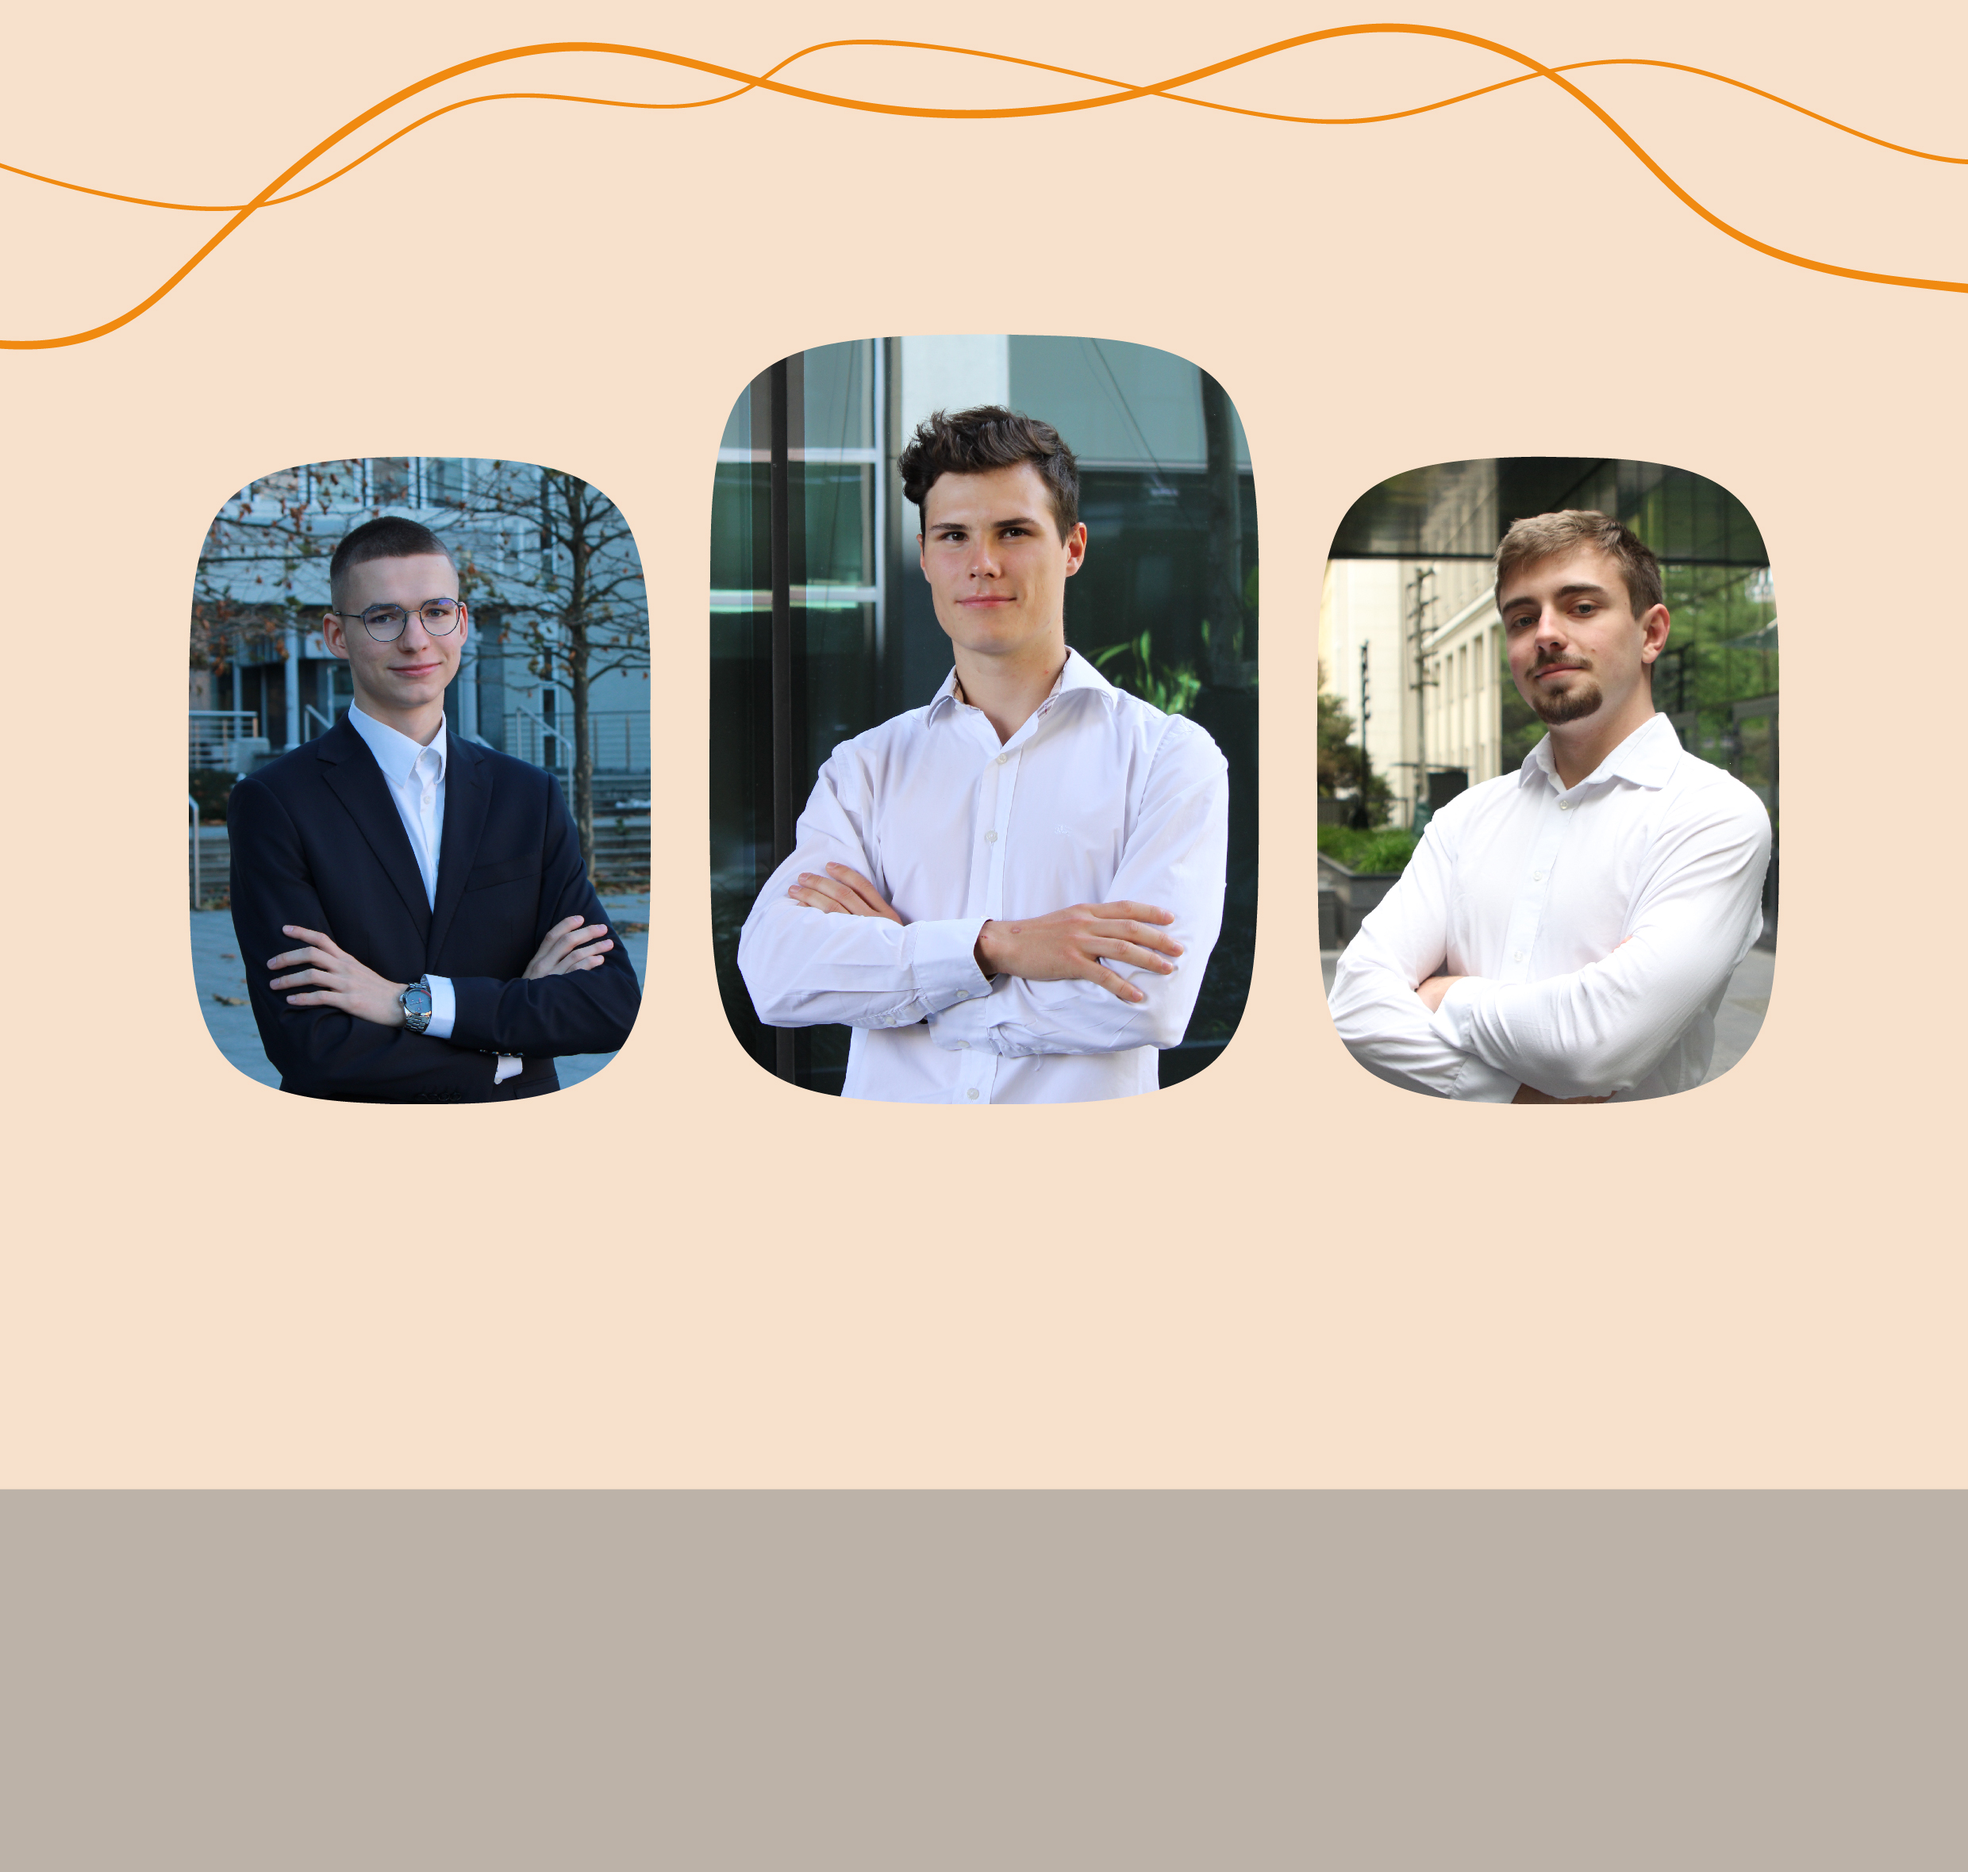
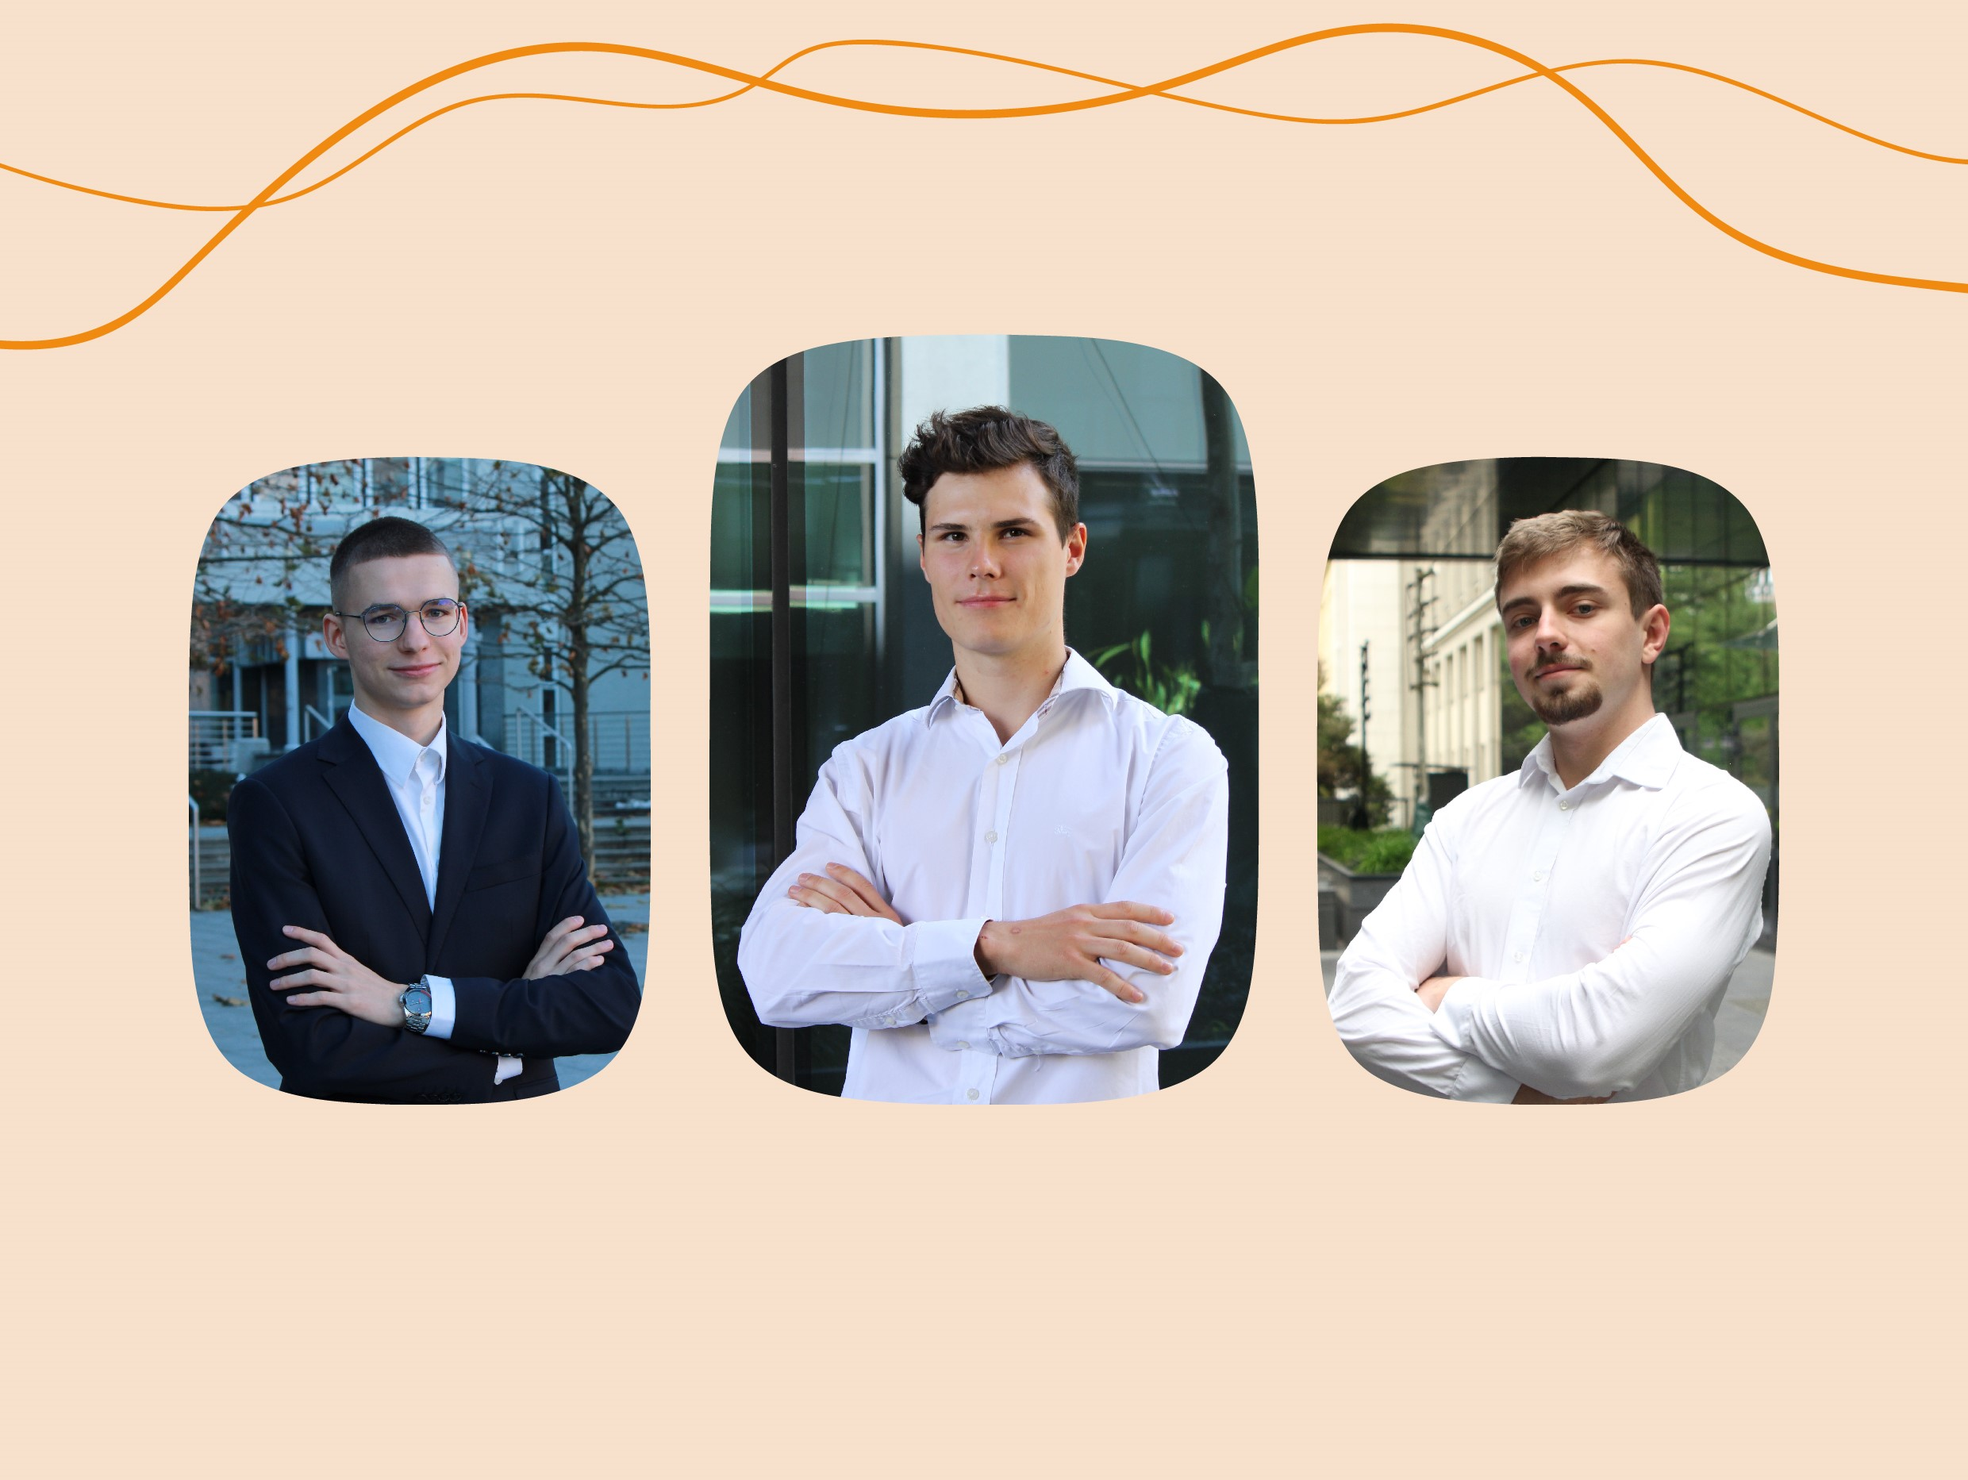
Desktop version done

diff --git a/src/components/Organizers.tsx b/src/components/Organizers.tsx
@@ -1,6 +1,5 @@
 import React from "react";
 //@ts-ignore
-//import img8_desktop from "../images/desktop_backgrounds/CT_bg.jpg";
 import img8_desktop from "../images/desktop_backgrounds/organizatorzy bez napisow 2_Obszar roboczy 1.jpg";
 //@ts-ignore
 import img6_mobile from "../images/mobile_backgrounds/CT_mobile_fix.png";
@@ -24,7 +23,7 @@ const Container = styled.div`
 
 const ContactBoxTitle = styled.h2`
   position: absolute;
-  top: 13%;
+  top: 15%;
   left: 50%;
   transform: translate(-50%, -50%);
   font-size: clamp(5rem, 2vw, 8rem);
@@ -37,15 +36,17 @@ const ContactBoxTitle = styled.h2`
 
 const TextBox = styled.div`
   position: absolute;
-  width: 17%;
-  height: 10%;
+  width: 22%;
+  height: auto;
   font-size: 1.15vw;
   line-height: 130%;
   color: #d2764a;
   text-align: center;
+  display: flex;
+  flex-direction: column;
   align-items: center;
-  display: flexbox;
   justify-content: center;
+  
   @media (max-width: 768px) {
     display: none;
   } ;
@@ -56,13 +57,24 @@ const Picture = styled.picture`
   top: 1.75rem;
 `;
 
-const NameText = styled.span`
-  font-size: 120%;
+const NameText = styled.div`
+  font-size: 3vw;
+  color: black;
+  font-weight: bold;
+  text-align: center;
+  margin-bottom: 1vh;
+`;
+
+const DescText = styled.div`
+  font-size: 1.5vw;
   font-weight: 600;
+  color: #d2764a;
+  text-align: center;
+  line-height: 1.4;
 `;
 
 const TextBoxLG = styled(TextBox)`
-  left: 33.33%;
+  left: 20%;
   transform: translate(-50%, -50%);
   top: clamp(60%, 65vw, 81.25%);
 `;
@@ -79,6 +91,19 @@ const TextBoxFR = styled(TextBox)`
   top: clamp(60%, 65vw, 81.25%);
 `;
 
+// stylizacja stopki
+const FooterContainer = styled.div`
+  width: 100%;
+  background-color: #c8beb3; // Kolor tła
+  color: white; //Kolor tekstu
+  text-align: center;
+  font-size: clamp(1rem, 2vw, 2rem);
+  padding: 2rem 0;
+  font-weight: 400;
+  line-height: 1.5;
+  //margin-top: 5rem;
+`;
+
 const Organizers: React.FC = () => {
   return (
       <>
@@ -89,34 +114,42 @@ const Organizers: React.FC = () => {
             <source srcSet={img6_mobile} media="(max-width: 768px)" />
             <Img src={img8_desktop} alt="last page" />
           </Picture>
+
           <ContactBoxTitle>
             Kontakt z organizatorami
           </ContactBoxTitle>
           <TextBoxLG>
-            <NameText>
-              TOMASZ KOLBUSZ <br />{" "}
-            </NameText>
-            KOORDYNATOR DS. LOGISTYKI <br />
-            881 682 816 <br />
-            TOMASZ.KOLBUSZ@BEST.KRAKOW.PL <br />
+            <NameText>TOMASZ KOLBUSZ</NameText>
+            <DescText>
+              KOORDYNATOR DS. LOGISTYKI <br />
+              881 682 816 <br />
+              TOMASZ.KOLBUSZ@BEST.KRAKOW.PL
+            </DescText>
           </TextBoxLG>
           <TextBoxMO>
-            <NameText>
-              PATRYK MOTYLSKI <br />{" "}
-            </NameText>
-            GŁÓWNY KOORDYNATOR <br />
-            531 767 164 <br />
-            PATRYK.MOTYLSKI@BEST.KRAKOW.PL <br />
+            <NameText>PATRYK MOTYLSKI</NameText>
+            <DescText>
+              GŁÓWNY KOORDYNATOR <br />
+              531 767 164 <br />
+              PATRYK.MOTYLSKI@BEST.KRAKOW.PL
+            </DescText>
           </TextBoxMO>
           <TextBoxFR>
-            <NameText>
-              BARTOSZ AMALIO <br />{" "}
-            </NameText>
-            KOORDYNATOR DS. KONTAKTU Z FIRMAMI <br />
-            531 490 520 <br />
-            BARTOSZ.AMALIO@BEST.KRAKOW.PL <br />
+            <NameText>BARTOSZ AMALIO</NameText>
+            <DescText>
+              KOORDYNATOR DS. KONTAKTU Z FIRMAMI <br />
+              531 490 520 <br />
+              BARTOSZ.AMALIO@BEST.KRAKOW.PL
+            </DescText>
           </TextBoxFR>
         </Container>
+
+        <FooterContainer>
+          STOWARZYSZENIE STUDENTÓW BEST AGH KRAKÓW <br />
+          DS 1 "ALFA" BLOK 1 <br />
+          UL. REYMONTA 17/E14 <br />
+          30-059 KRAKÓW
+        </FooterContainer>
       </>
   );
 };
